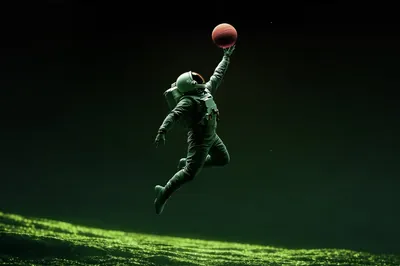
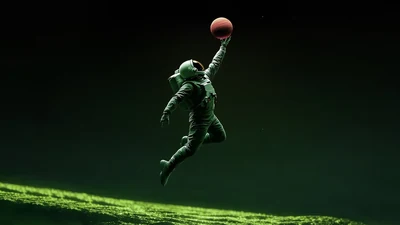
feat(hero): update hero image with dunking astronaut, harmonize background shades, and optimize layout spacing

diff --git a/src/pages/Home.tsx b/src/pages/Home.tsx
@@ -305,20 +305,20 @@ export function Home() {
       <JsonLd data={professionalServiceSchema} />
       
       {/* Hero Section */}
-      <section ref={heroRef} className="relative w-full min-h-[100vh] lg:min-h-[90vh] -mt-[116px] overflow-hidden flex items-center justify-center pt-28 pb-16 sm:py-28 lg:py-32">
+      <section ref={heroRef} className="relative w-full min-h-[100vh] lg:min-h-[90vh] -mt-[116px] overflow-hidden flex items-center justify-center pt-28 pb-16 sm:py-28 lg:py-32 bg-[#050a06]">
         {/* Background Parallax Image */}
         <motion.div 
           style={{ y: heroY, opacity: heroOpacity }}
-          className="absolute inset-0 z-0 w-full h-full"
+          className="absolute inset-0 z-0 w-full h-full overflow-hidden"
         >
-          {/* Scroll-driven floating astronaut animation */}
+          {/* Scroll-driven floating astronaut animation - oversized container ensures full-bleed coverage with zero left/right edge seams */}
           <motion.div
             style={{ 
               scale: astronautScale, 
               y: astronautY, 
               rotate: astronautRotate 
             }}
-            className="absolute inset-0 w-full h-full will-change-transform md:translate-x-[6vw] pointer-events-none"
+            className="absolute -inset-x-[25%] inset-y-0 w-[150%] h-full will-change-transform md:translate-x-[10vw] lg:translate-x-[15vw] xl:translate-x-[18vw] pointer-events-none"
           >
             <SafeImage
               src="/images/hero-digital-agency-dubai-1920w.webp"
@@ -330,15 +330,15 @@ export function Home() {
               loading="eager"
               decoding="async"
               fetchPriority="high"
-              className="w-full h-full object-cover object-[58%_10%] sm:object-[72%_10%] lg:object-[80%_10%] pointer-events-none"
+              className="w-full h-full object-cover object-[50%_10%] pointer-events-none"
             />
           </motion.div>
-          {/* Directional gradient overlay: darkens the left for solid typography while letting astronaut pop on the right */}
-          <div className="absolute inset-0 bg-gradient-to-b from-olive-950/45 via-olive-950/35 to-olive-950 lg:bg-gradient-to-r lg:from-olive-950 lg:via-olive-950/70 lg:to-transparent z-10 pointer-events-none w-full lg:w-[65%]" />
-          <div className="absolute inset-0 bg-gradient-to-t from-olive-950 via-transparent to-transparent z-10 pointer-events-none" />
+          {/* Directional gradient overlay: seamlessly matches the image base color (#050a06) across the full width, eliminating shade seams */}
+          <div className="absolute inset-0 bg-gradient-to-b from-[#050a06]/70 via-transparent to-[#0d1a0f] lg:bg-gradient-to-r lg:from-[#050a06]/95 lg:via-[#050a06]/50 lg:to-transparent z-10 pointer-events-none w-full" />
+          <div className="absolute inset-0 bg-gradient-to-t from-[#0d1a0f] via-transparent to-transparent z-10 pointer-events-none" />
           
           {/* Particle Grid Overlay */}
-          <div className="absolute inset-0 z-10 pointer-events-none opacity-20 bg-[radial-gradient(#4d7a3c_1px,transparent_1px)] [background-size:40px_40px]" />
+          <div className="absolute inset-0 z-10 pointer-events-none opacity-15 bg-[radial-gradient(#4d7a3c_1px,transparent_1px)] [background-size:40px_40px]" />
 
           {/* 3D Perspective Wireframe Mesh / Landscape Floor (Moonbox inspired) */}
           <div className="absolute bottom-0 inset-x-0 h-[40vh] z-10 pointer-events-none overflow-hidden opacity-30">
@@ -368,23 +368,16 @@ export function Home() {
[1 lines of base64/hex data omitted]
           
           {/* Atmospheric Backlight / Nebula Glow behind astronaut */}
-          <div className="absolute top-[18%] right-[8%] w-[42vw] h-[42vw] bg-radial from-olive-500/30 via-emerald-900/20 to-transparent rounded-full blur-[100px] z-0 pointer-events-none" />
-          <motion.div 
-            animate={{ 
-              x: [0, 60, 0],
-              y: [0, -30, 0],
-            }}
-            transition={{ duration: 20, repeat: Infinity, ease: "linear" }}
-            className="absolute top-1/4 left-1/4 w-[35vw] h-[35vw] bg-olive-500/15 rounded-full blur-[120px] z-0 pointer-events-none" 
-          />
+          <div className="absolute top-[18%] right-[8%] w-[42vw] h-[42vw] bg-radial from-olive-500/20 via-emerald-950/15 to-transparent rounded-full blur-[120px] z-0 pointer-events-none" />
         </motion.div>
 
-        {/* FOREGROUND HERO CONTENT (Monumental typography with solid DIGITAL SOLUTIONS and giant outlined FOR BUSINESS cascading towards the astronaut) */}
+        {/* FOREGROUND HERO CONTENT - Clean, uncrowded layout with crisp left alignment */}
         <div className="max-w-7xl mx-auto px-4 sm:px-6 lg:px-8 relative z-20 w-full mt-6 sm:mt-10 lg:mt-14">
           <motion.div 
             initial={{ opacity: 0, y: 20 }}
             animate={{ opacity: 1, y: 0 }}
             transition={{ duration: 0.8, delay: 0.2 }}
+            className="max-w-3xl lg:max-w-2xl xl:max-w-[55%]"
           >
             <div className="inline-flex items-center gap-2 mb-6 sm:mb-8 px-3.5 py-1.5 rounded-full bg-white/5 border border-white/10 text-[11px] sm:text-xs font-bold tracking-widest text-brand-white uppercase backdrop-blur-md">
               <span className="w-2 h-2 rounded-full bg-olive-500 animate-pulse"></span>
@@ -392,22 +385,22 @@ export function Home() {
             </div>
             
             <h1 className="sr-only">Best Digital Marketing Agency in Dubai</h1>
-            <div className="font-display font-black tracking-tighter mb-8 sm:mb-10 w-full flex flex-col gap-1 sm:gap-1.5 leading-none overflow-hidden" aria-hidden="true">
+            <div className="font-display font-black tracking-tight mb-8 sm:mb-10 w-full flex flex-col gap-1.5 sm:gap-2.5 leading-none overflow-hidden" aria-hidden="true">
               <div className="self-start max-w-full">
-                <AnimatedChars text={t('hero.line1')} className="text-brand-white text-[clamp(2.8rem,8vw,9.5rem)] leading-[0.88] tracking-tight break-words" delay={0.3} />
+                <AnimatedChars text={t('hero.line1')} className="text-brand-white text-[clamp(2.5rem,5.5vw,5.8rem)] leading-[0.92] tracking-tight break-words" delay={0.3} />
               </div>
-              <div className="self-start ml-0 sm:ml-[clamp(16px,3.5vw,50px)] max-w-full">
-                <AnimatedChars text={t('hero.line2')} className="text-brand-white text-[clamp(2.4rem,7.2vw,8.5rem)] leading-[0.88] tracking-tight break-words" delay={0.5} />
+              <div className="self-start max-w-full">
+                <AnimatedChars text={t('hero.line2')} className="text-brand-white text-[clamp(2.5rem,5.5vw,5.8rem)] leading-[0.92] tracking-tight break-words" delay={0.5} />
               </div>
-              <div className="self-start ml-0 sm:ml-[clamp(24px,6vw,90px)] mt-2 sm:mt-3 max-w-full">
-                <AnimatedChars text={t('hero.line3')} className="text-[clamp(2.4rem,8.2vw,9.8rem)] leading-[0.88] tracking-tight text-transparent [-webkit-text-stroke:1.6px_rgba(255,255,255,0.75)] sm:[-webkit-text-stroke:2.4px_rgba(255,255,255,0.75)] drop-shadow-[0_0_35px_rgba(77,122,60,0.3)] break-words" delay={0.7} />
+              <div className="self-start mt-1 max-w-full">
+                <AnimatedChars text={t('hero.line3')} className="text-[clamp(2.5rem,5.5vw,5.8rem)] leading-[0.92] tracking-tight text-transparent [-webkit-text-stroke:1.5px_rgba(255,255,255,0.75)] sm:[-webkit-text-stroke:2px_rgba(255,255,255,0.75)] drop-shadow-[0_0_35px_rgba(77,122,60,0.3)] break-words" delay={0.7} />
               </div>
             </div>
             <motion.p 
               initial={{ opacity: 0 }}
               animate={{ opacity: 1 }}
               transition={{ delay: 1.2, duration: 0.8 }}
-              className="mt-4 sm:mt-6 text-brand-white-70 max-w-xl text-base sm:text-lg md:text-xl font-medium leading-relaxed"
+              className="mt-6 sm:mt-8 text-brand-white-70 max-w-lg text-base sm:text-lg md:text-xl font-medium leading-relaxed"
             >
               {t('hero.desc')}
             </motion.p>
